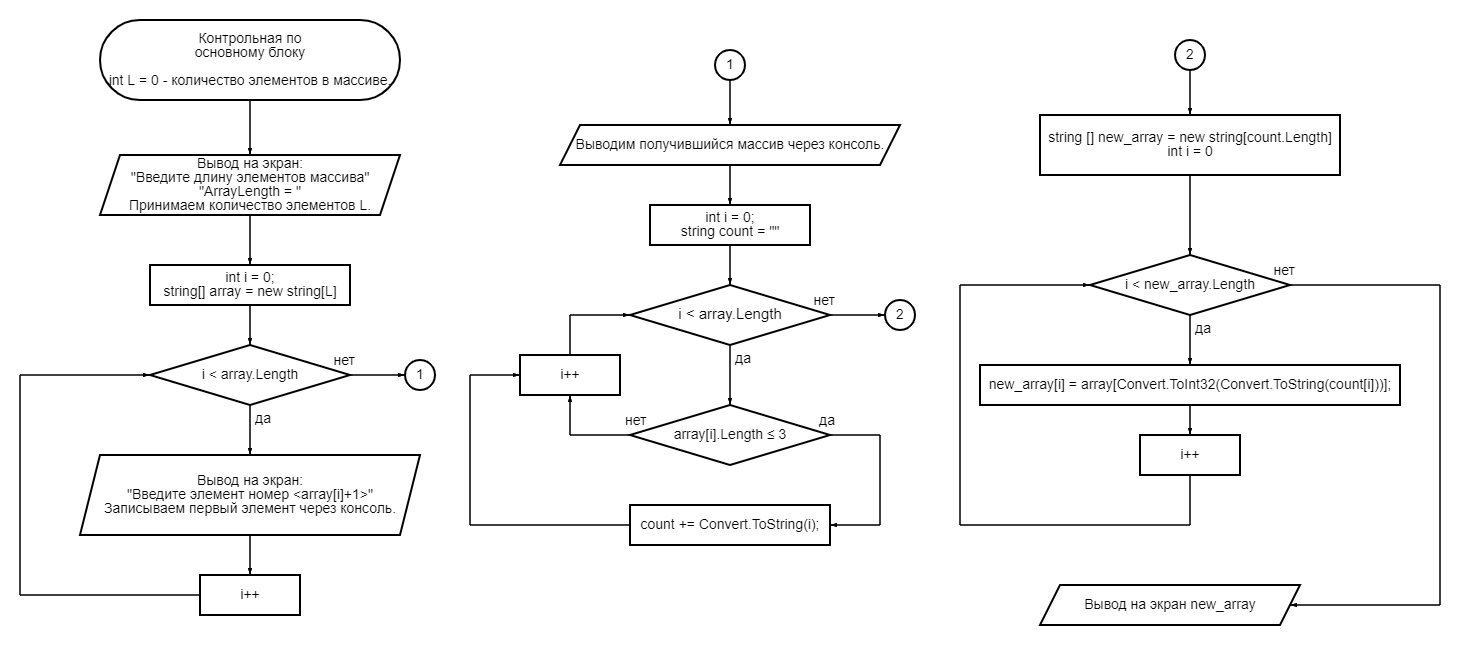
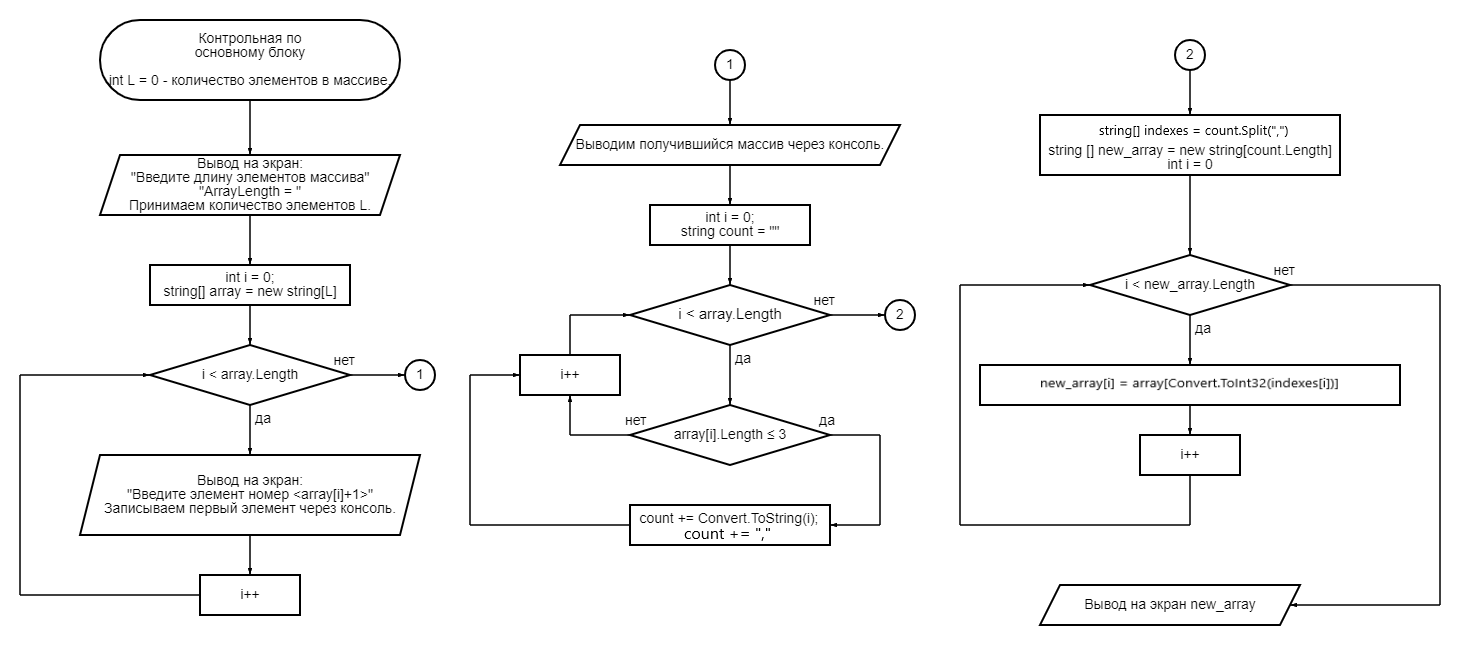
added readme and modified block diagram

Changed region(s): [[0.7089, 0.186, 0.9247, 0.2791], [0.6781, 0.5891, 0.9555, 0.6202], [0.4315, 0.7752, 0.5548, 0.8372]]

diff --git a/README.md b/README.md
@@ -1,1 +1,34 @@
-# control_work_base_block
+# Итоговая контрольная по вводному блоку
+**Требуется:**
+Написать программу, которая из имеющегося массива строк формирует новый массив из строк, длина которых *меньше, либо равна 3 символам*. Первоначальный массив можно ввести с клавиатуры, либо задать на старте выполнения алгоритма. 
+
+## Описание решения
+
+### Ввод исходных данных
+
+Сначала, через метод **Console.WriteLine()** выводим на экран сообщение о необходимости ввести длину **L** требуемого массива. Далее через метод **Console.ReadLine()** программа считывает эту самую длину и объявляет массив строк **array** с длиной **L**.
+
+Запускаем цикл **for** для задания значений каждому элементу нашего массива.
+
+После того, как все элементы исходного массива заданы, начинаем обрабатывать полученные данные.
+
+### Поиск строк, длина которых меньше либо равна 3
+
+Для начала, создаем пустую строку **count**, в которую будем записывать индексы всех нужных нам строк.
+Запускаем цикл прохождения по всем элементам массива **array**. Если длина элемента меньше либо равна 3, то добавляем индекс элемента к строке **count**.
+
+Для того чтобы алгоритм работал с массивами, *размер которых больше 10 элементов*, после каждого добавления вводим разделитель - **запятую**.
+
+Получаем строку **count** вида **"0,2,7,11"**, где числа - индексы необходимых нам элементов.
+
+После чего методом **string.Split()** создаем массив **indexes**, который будет хранить в себе индексы нужных нам элементов. С этим массивом и будем работать далее.
+
+### Создание нового массива
+
+Объявляем массив **new_array** с такой же длиной как и у массива **indexes**. 
+
+Запускаем цикл прохождения по элементам массива **new_array**, на каждый i элемент записываем значение из массива **array** с индексом **indexes[i]**.
+
+Таким образом получим нужный нам массив с элементами, размер которых *менее либо равен 3*.
+
+Выводим полученный массив через консоль..
